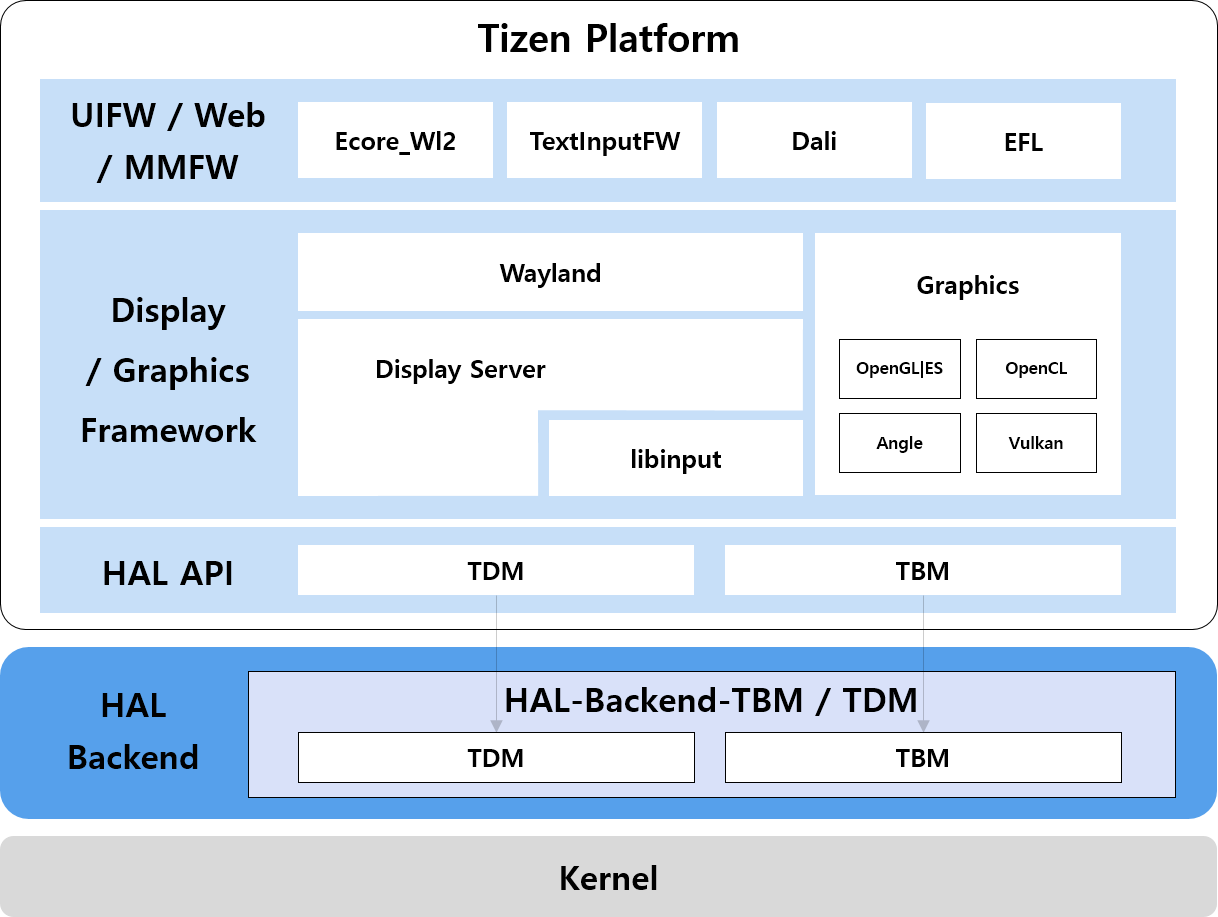
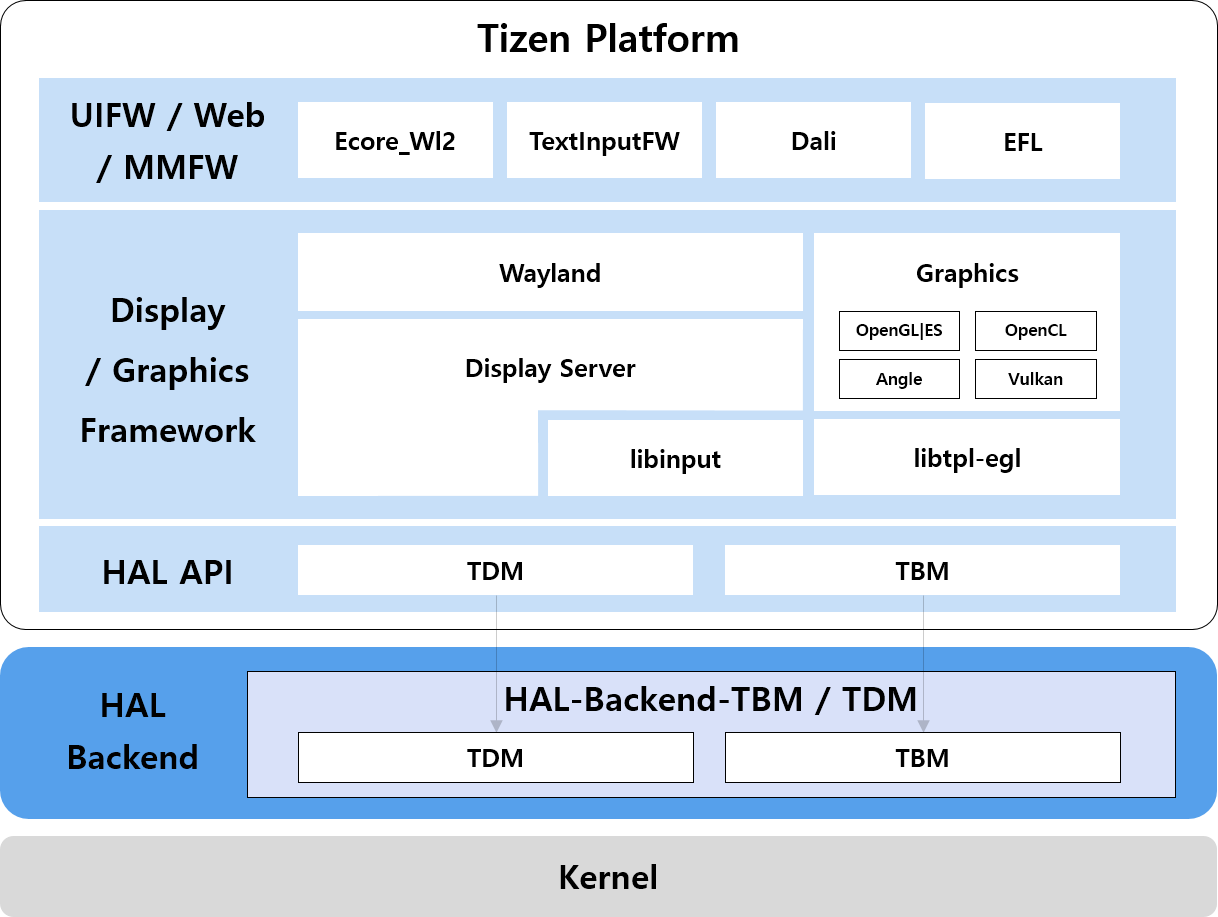
displaygraphics : update libtpl-egl component

diff --git a/docs/platform/HAL/displaygraphics.md b/docs/platform/HAL/displaygraphics.md
@@ -60,7 +60,7 @@ Porting OpenGL ES (OpenGLES) and the Embedded-System Graphics Library (EGL) to T
 
 - **`libtbm` (Tizen Buffer Manager):** As described in the HAL TBM Module section, `libtbm` is the user-space library for managing graphics buffers. When porting EGL, `libtbm` serves as the front-end to the hardware-specific TBM backend module (the "hap tbm module"). The EGL implementation must use `libtbm` to allocate and manage the native pixel buffers (surfaces) that will be used for rendering. This ensures that the buffers are compatible with Tizen's display pipeline and can be efficiently shared with the display server (via the Wayland protocol, for example).
 
-- **`libtpl-egl` (Tizen Platform Library for EGL):** This library acts as a bridge or a wrapper between the standard EGL API and Tizen's underlying Display and Graphics system and hardware abstraction layer. `libtpl-egl` is responsible for adapting EGL calls to work with Tizen's specific components, such as the Wayland compositor and the TBM/TDM HAL modules. It handles the creation of EGL surfaces in a way that is native to Tizen, often by integrating with the Wayland display server for surface creation and buffer swapping.
+- **`libtpl-egl` (Tizen Porting Layer for EGL):** This library acts as a bridge or a wrapper between the standard EGL API and Tizen's underlying Display and Graphics system and hardware abstraction layer. `libtpl-egl` is responsible for adapting EGL calls to work with Tizen's specific components, such as the Wayland compositor and the TBM/TDM HAL modules. It handles the creation of EGL surfaces in a way that is native to Tizen, often by integrating with the Wayland display server for surface creation and buffer swapping.
 
     Furthermore, `libtpl-egl` utilizes `libtdm` (the user-space library for the Tizen Display Manager) to receive vertical synchronization (VSync) signals from the display hardware. This allows the rendering loop to be synchronized with the display's refresh rate, which is essential for smooth, tear-free visuals and optimal power management.
 
